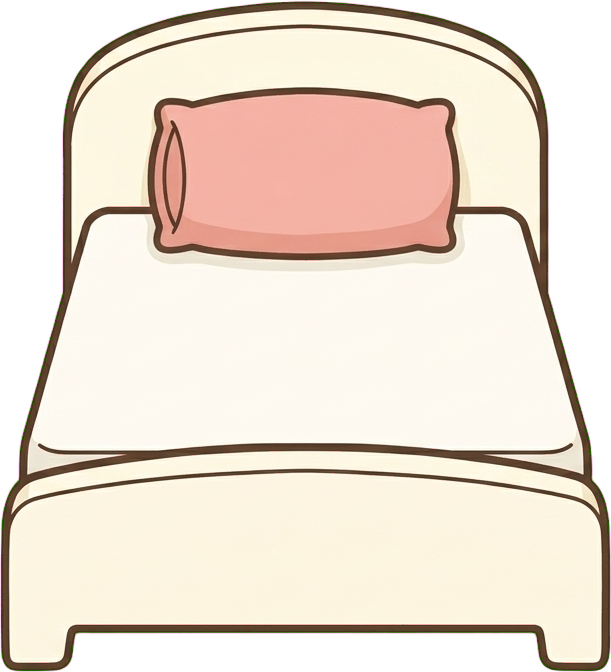
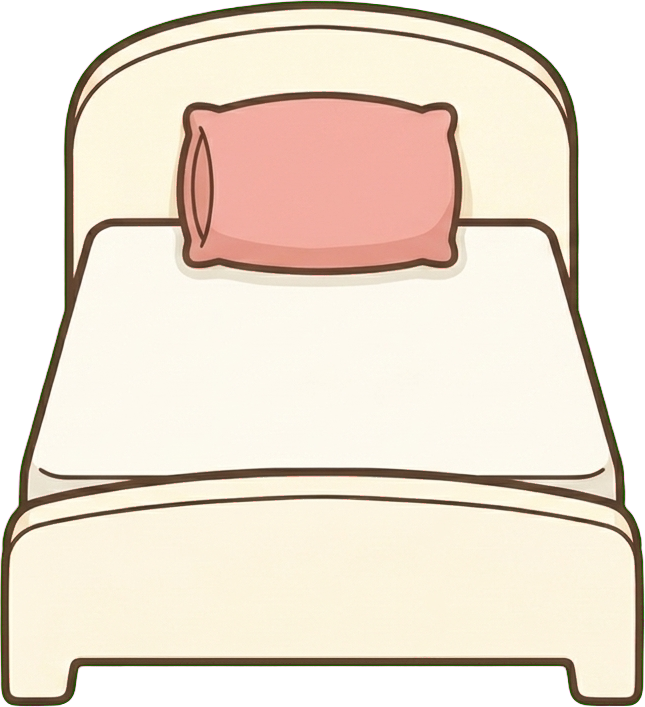
rebuild break mode as a room, not a bed on a wall
Three complaints, one cause: the scene was composed for a crop that does
not exist. The room was authored 768x1344 and displayed cover into a
375x812 scene, so only its top 44% ever showed. Everything meant for eye
level landed near the floor, the nightstand and the floorboards were
never visible at all, and with no floor plane in view the bed read as
floating no matter where it was anchored.

Re-authored the room square to match the stage (375x422 above the
controls) and sized it with `auto calc(100% - var(--floor-y) + 8px)`
instead of cover. cover measures against .scene, which is the FULL
viewport height, so a square source got scaled to 812 and lost 218px off
each side. Sizing to the stage maps the art onto exactly the band the
user sees and crops ~27px per side. The room now has what it was missing:
a skirting board and a wooden floor in perspective, with the bed standing
on it and a contact shadow at its base.

The character is no longer resized between focus and break. The 0.75
scale was too visible, and it turned out never to apply anyway:
.maker-wrap owns transform for the walk choreography with a 1050ms
transition, which silently drops any transform declared elsewhere. Every
screenshot so far was already full size. Bed width is the knob instead.

Lessons from this are written up in ~/.claude/skills/compositing-scene-art.

diff --git a/styles.css b/styles.css
@@ -418,10 +418,18 @@ body {
    with nothing under it. Restoring the gradient (with the art's own wood
    colours, sampled from the background) puts a real floor back under him. */
 .scene.is-on-break {
-  --floor-a: #c49a72;   /* wood, front edge */
-  --floor-b: #d5ad8d;   /* wood, fill */
+  --floor-a: #d2a878;   /* wood, matches the room's floorboards */
+  --floor-b: #dcb98f;   /* wood, matches the room's floorboards */
+  /* The room is authored SQUARE to match the STAGE — the part of .scene above
+     the controls — and is sized to the stage explicitly rather than with cover.
+     cover sizes against .scene, which is the full viewport height, so a square
+     source was scaled to 812 and lost 218px off EACH side. Sizing the height to
+     (100% - --floor-y) maps the art onto exactly the band the user can see, and
+     crops about 27px per side instead. The +8px keeps it meeting the floor line
+     as --floor-y shifts between modes; background-color backs it up. */
   background: var(--floor-grad) no-repeat,
-              #c9bfe0 url('assets/Bedroom Background.png') top center / cover no-repeat;
+              #c9bfe0 url('assets/Bedroom Background.png') top center /
+                auto calc(100% - var(--floor-y) + 8px) no-repeat;
 }
 .scene.is-on-break .work-counter {
   background: linear-gradient(180deg, #fbf7ff 0, #f1ecf8 16px, #e3daf0 100%);
@@ -438,9 +446,9 @@ body {
    the background's arch frame.) This quietly grounds the bed to the ledge. */
 .break-rug {
   position: absolute;
-  left: calc(50% - 112px);
-  bottom: calc(var(--floor-y) + 2px);
-  width: 224px; height: 22px;
+  left: calc(50% - (var(--bed-w) / 2) + 6px);
+  bottom: calc(var(--floor-y) + 1px);
+  width: calc(var(--bed-w) - 12px); height: 20px;
   border-radius: 50%;
   background: radial-gradient(ellipse at 50% 50%,
     rgba(88, 58, 108, 0.30) 0%, rgba(88, 58, 108, 0.16) 55%, transparent 76%);
@@ -454,10 +462,9 @@ body {
 
    The old single bed was 240px wide against a 205px character — 1.17x — so he
    could only ever sit ON it, and his art started 107px above its top edge.
-   --bed-w is now wide enough to read as furniture, and the character is scaled
-   down in break mode (see .scene.is-on-break .maker-wrap) so the ratio lands
-   near 2:1 and he actually fits in it. */
-.scene { --bed-w: 268px; --blanket-w: 246px; }
+   --bed-w is now wide enough to read as furniture at the character's real size,
+   so he is never resized between focus and break. */
+.scene { --bed-w: 292px; --blanket-w: 292px; }
 .break-bed-back,
 .break-bed-front {
   position: absolute;
@@ -467,7 +474,7 @@ body {
   pointer-events: none;
 }
 .break-bed-back {
-  bottom: calc(var(--floor-y) + 2px);
+  bottom: calc(var(--floor-y) + 6px);
   z-index: 4;                       /* headboard + pillow, BEHIND him */
   filter: drop-shadow(0 3px 3px rgba(60,32,24,0.22));
 }
@@ -477,20 +484,23 @@ body {
      face clear. At full bed width the cuff cut straight across his eyes. */
   left: calc(50% - (var(--blanket-w) / 2));
   width: var(--blanket-w);
-  bottom: calc(var(--floor-y) + 2px);
+  bottom: calc(var(--floor-y) + 6px);
   z-index: 10;                      /* blanket, IN FRONT of him = tucked in */
 }
 .scene.is-on-break .break-bed-back,
 .scene.is-on-break .break-bed-front { display: block; }
 
-/* Character naps IN the bed on break: scaled down so the bed reads as bigger
-   than he is, and seated at the mattress so the blanket layer crosses his body.
-   transform-origin is the bottom so the scale doesn't lift him off the mattress. */
+/* Character naps IN the bed on break: centred on the mattress and seated so the
+   blanket layer crosses his chest.
+   He is deliberately NOT scaled here. An earlier version shrank him to 0.75 in
+   break, which read as the character shrinking rather than as depth. It also
+   never actually took effect — .maker-wrap carries transform: translateX(--walk)
+   with a 1050ms transition for the walk choreography, and that transition owns
+   the transform property, so a scale declared here is silently dropped. Size the
+   bed instead; --bed-w is the knob. */
 .scene.is-on-break .maker-wrap {
-  left: calc(50% - 102px);          /* centre the 205px box; scale keeps its centre */
-  bottom: calc(var(--floor-y) + 164px);
-  transform: scale(0.75);
-  transform-origin: 50% 100%;
+  left: calc(50% - 102px);
+  bottom: calc(var(--floor-y) + 122px);
 }
 
 /* ── Scene ambiance ────────────────────────────────────────────────────── */

diff --git a/sw.js b/sw.js
@@ -1,7 +1,7 @@
 // Mr. Tapioca service worker — makes the app installable and usable offline.
 // Bump CACHE on every release so installed users get the new app shell
 // (cache-first would otherwise serve them the old index/app.js/styles forever).
-const CACHE = "mr-tapioca-v112";
+const CACHE = "mr-tapioca-v117";
 
 // Core app shell precached on install so the app boots with no network.
 const SHELL = [
